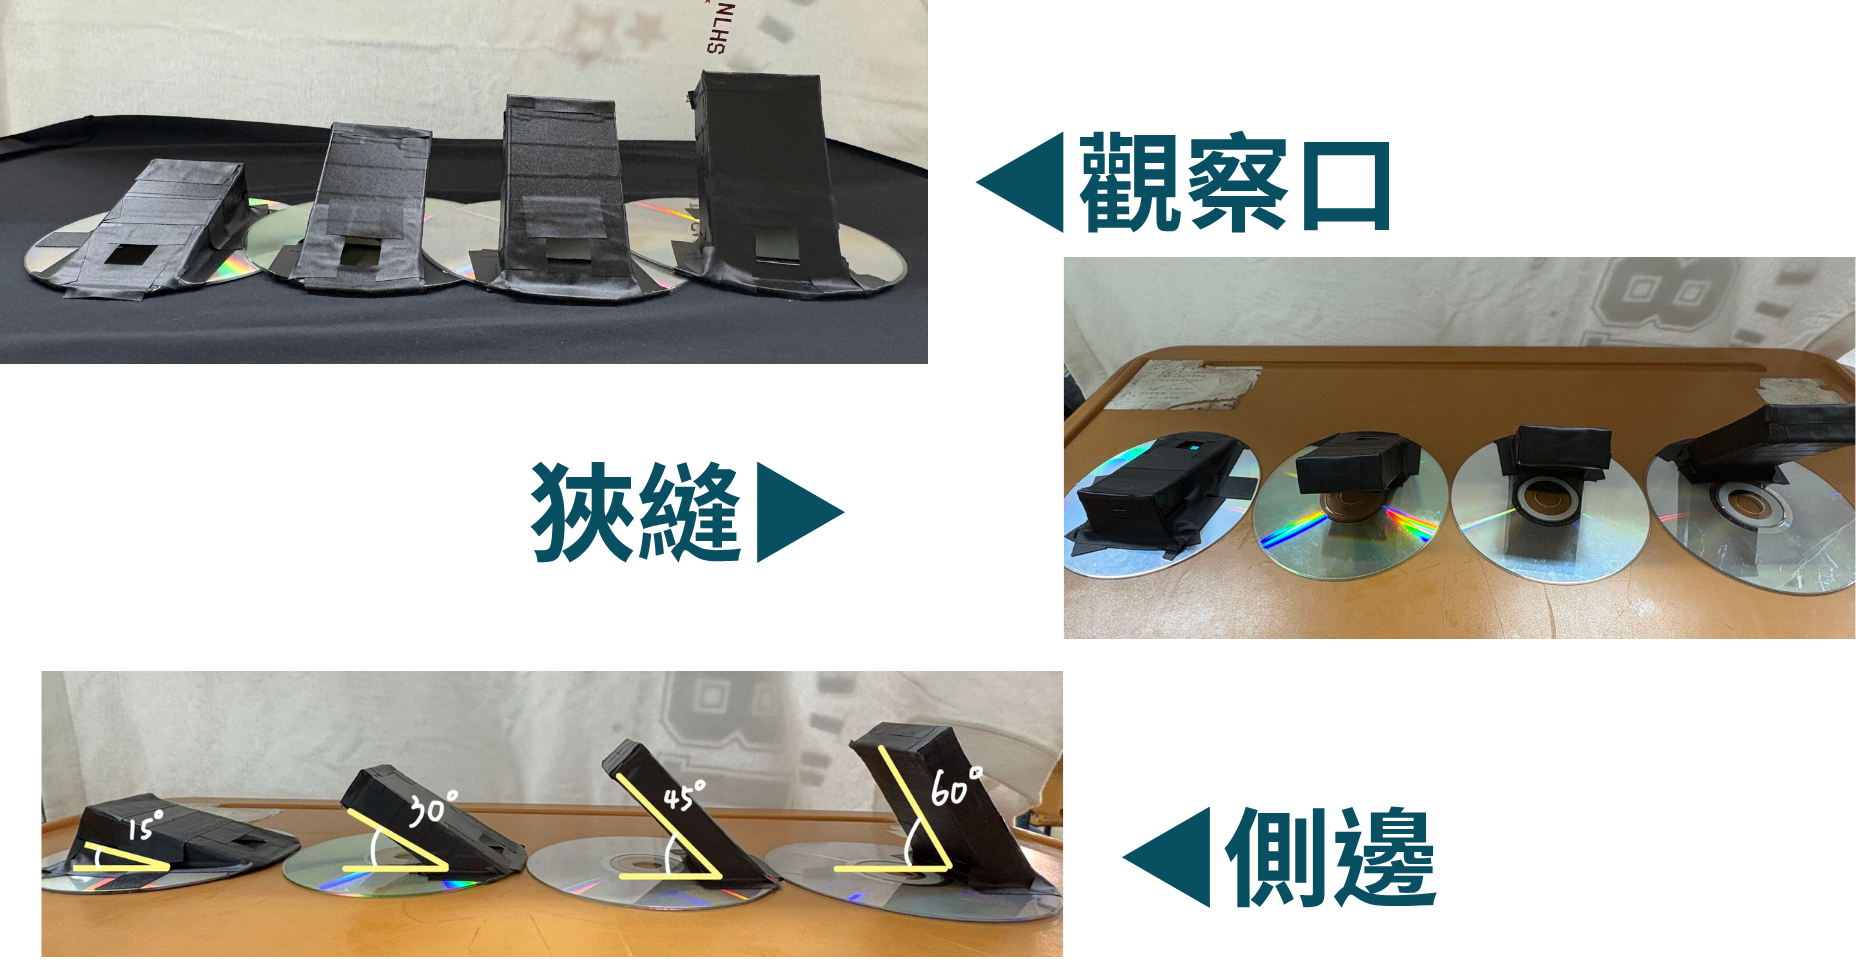
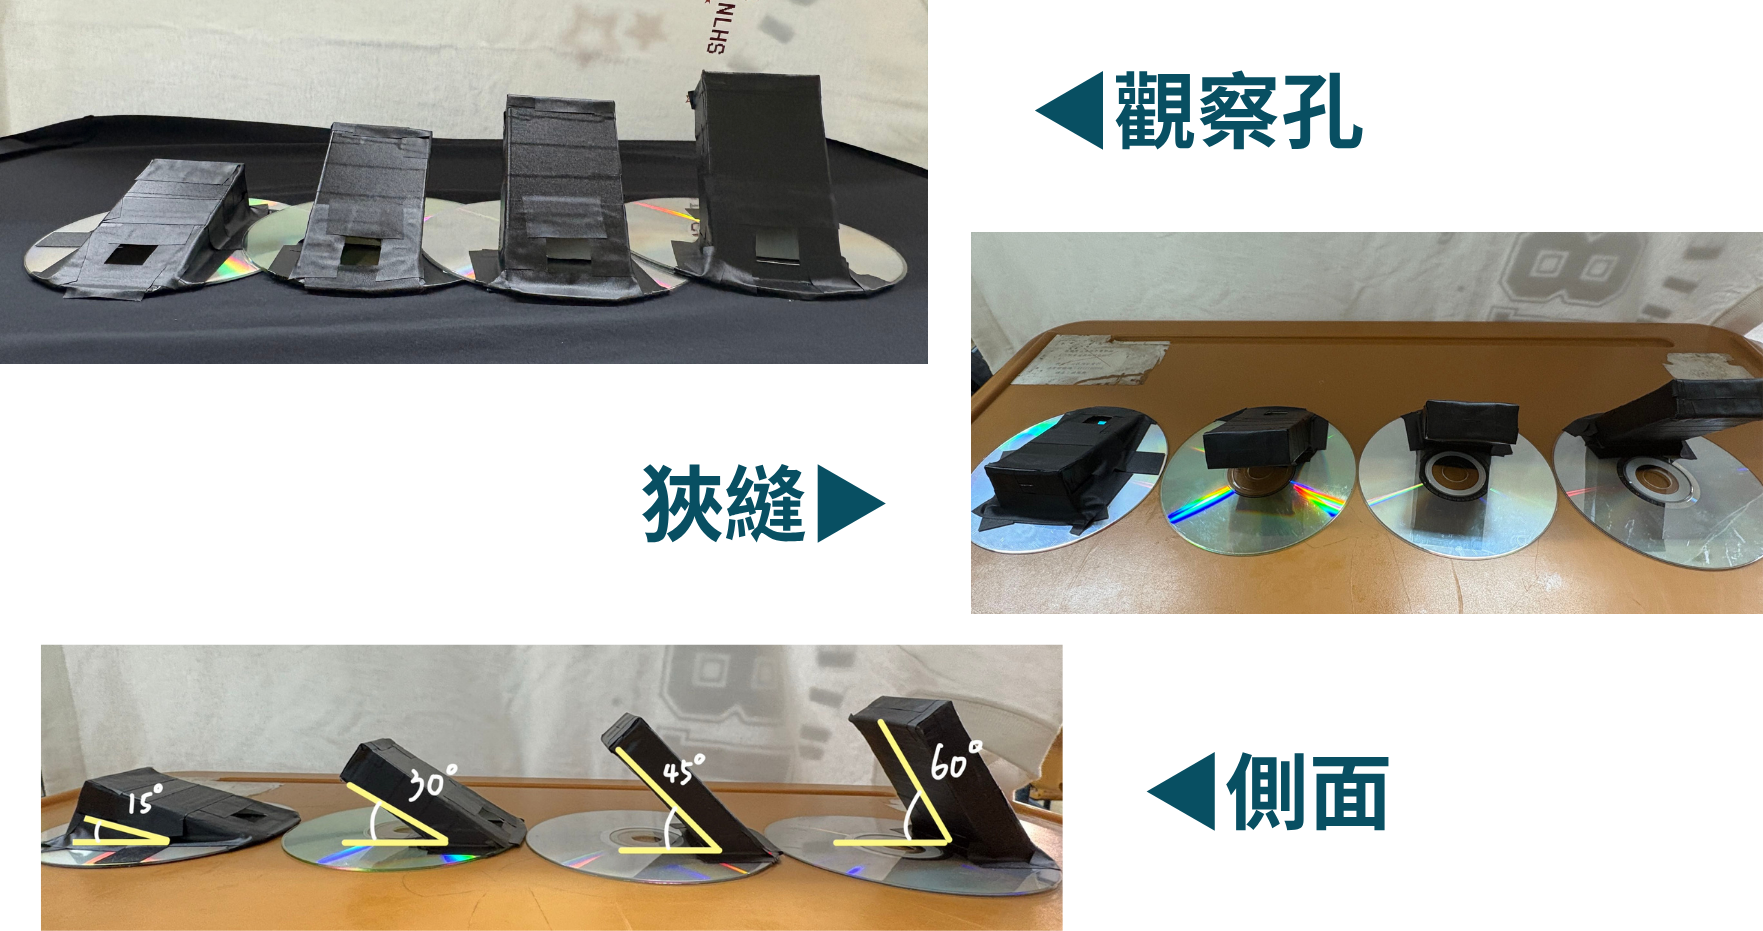
1556516516615

diff --git a/slides/Science.md b/slides/Science.md
@@ -40,13 +40,22 @@
 
 ## 製作光譜儀所需材料：
 
-[!image](public/images/uu_sci_006.png){512, 右, 設計圖稿和尺寸標註}
+[!image](public/images/uu_sci_006.png){600, 右, 材料們}
 
 - 初始尺寸相同的盒子<br>
 - 「黑色」膠帶<br>
 - 有刻度的直尺和量角器<br>
 - 剪刀<br>
 - 穩定光源(電子白板和教室檯燈)<br>
+
+---
+
+<!-- .slide: class="concept" -->
+
+## 光譜儀成品
+
+[!image](public/images/uu_sci_007.png){4096, 右, 成品三視圖}
+
 
 ---
 
